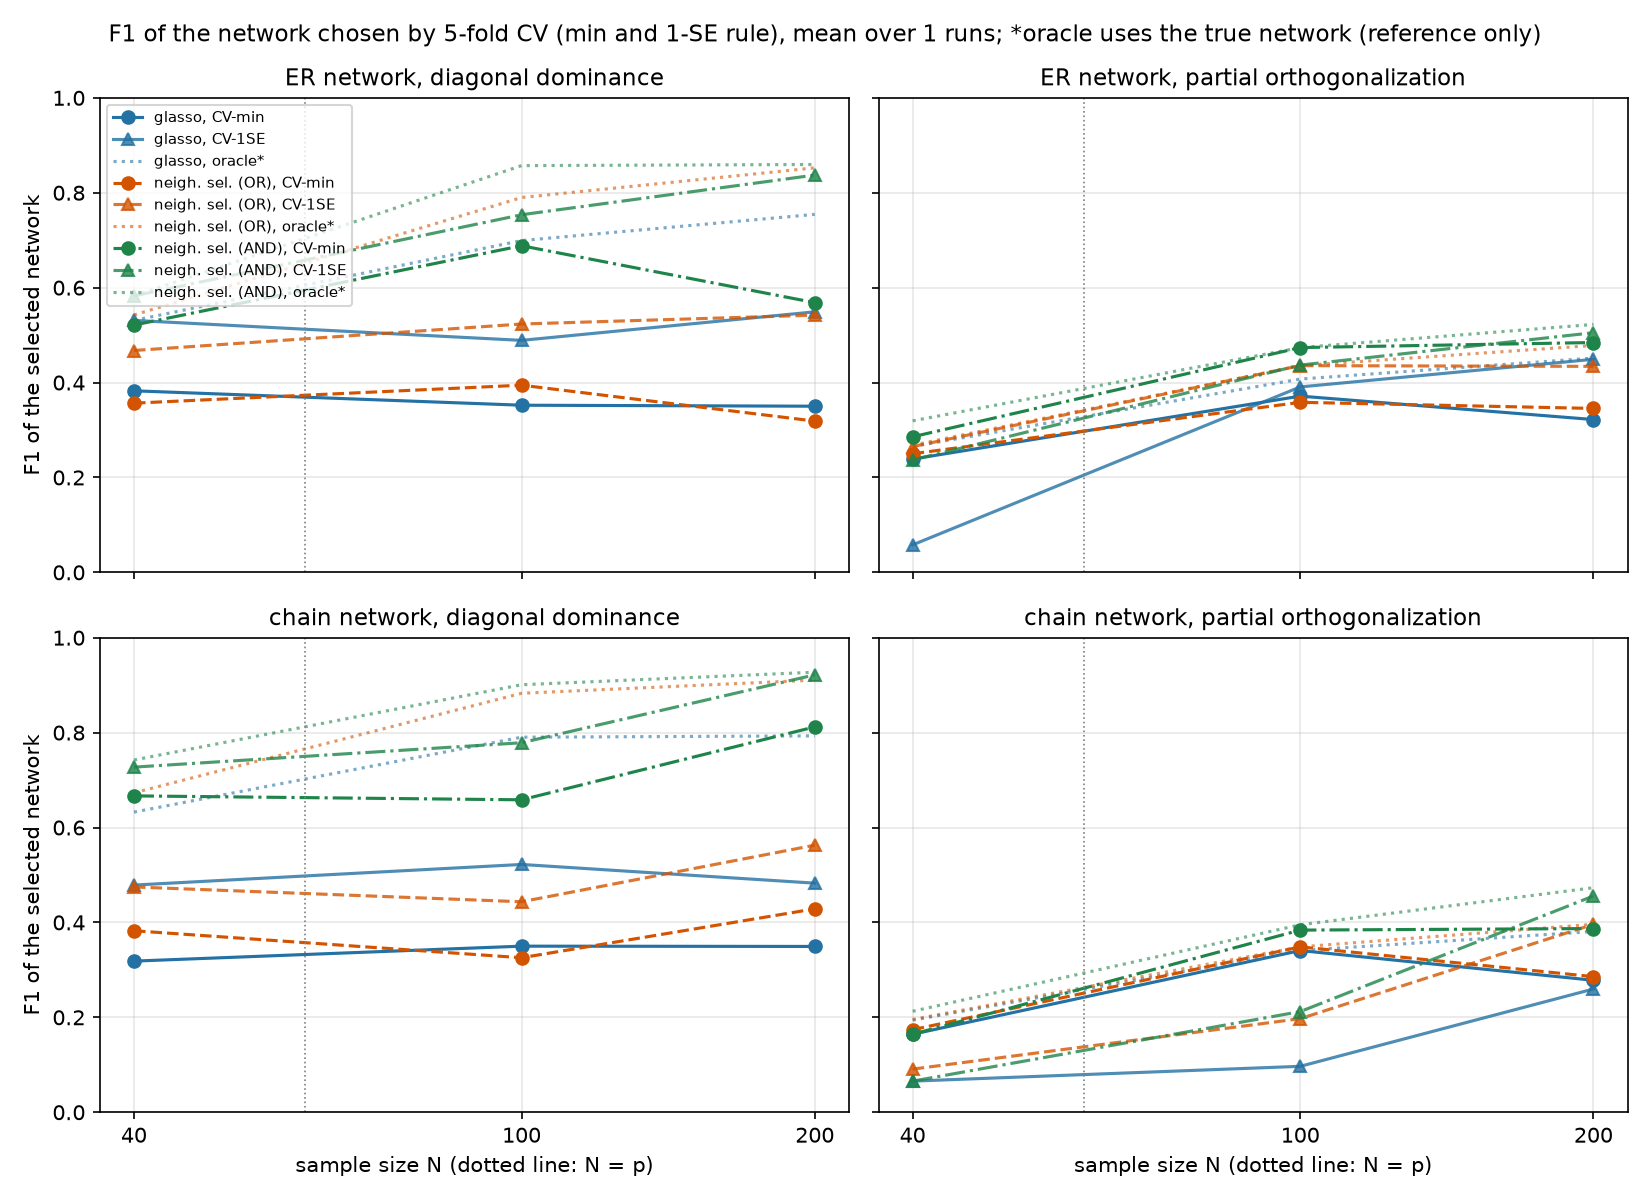
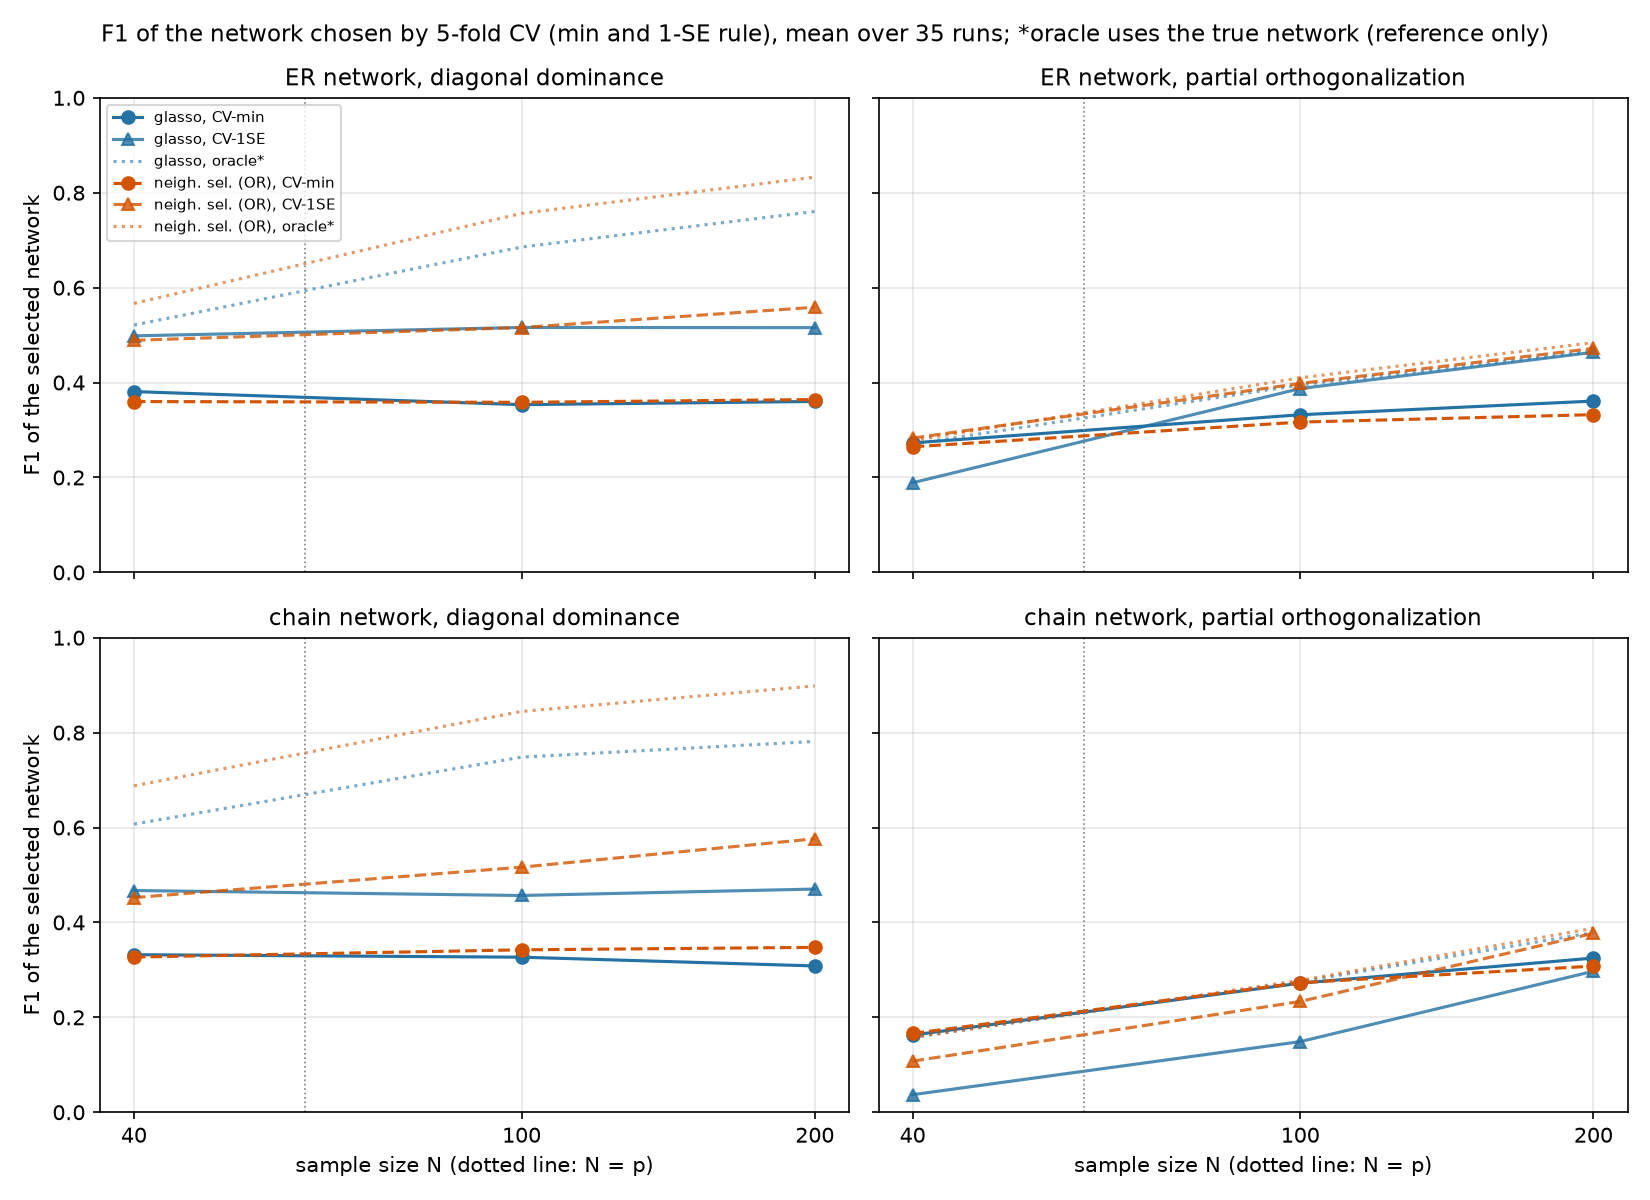
data: changes after all the run

diff --git a/results/partA_f1_table.md b/results/partA_f1_table.md
@@ -1,41 +1,29 @@
 | Network | Method | N | Estimator | TPR @ FPR=0.05 | F1 (CV-min) | edges (CV-min) | F1 (CV-1SE) | edges (CV-1SE) | F1 (BIC) | edges (BIC) | F1 oracle* | glasso failures |
 |---|---|---|---|---|---|---|---|---|---|---|---|---|
-| ER (67) | DD | 40 | glasso | 0.61 | 0.38 ± 0.00 | 163 | 0.53 ± 0.00 | 46 | 0.46 ± 0.00 | 75 | 0.53 | 0 |
-| ER (67) | DD | 100 | glasso | 0.81 | 0.35 ± 0.00 | 268 | 0.49 ± 0.00 | 158 | 0.56 ± 0.00 | 121 | 0.70 | 0 |
-| ER (67) | DD | 200 | glasso | 0.84 | 0.35 ± 0.00 | 270 | 0.55 ± 0.00 | 137 | 0.55 ± 0.00 | 137 | 0.75 | 0 |
-| ER (67) | DD | 40 | neigh. sel. (OR) | 0.59 | 0.36 ± 0.00 | 191 | 0.47 ± 0.00 | 87 | 0.54 ± 0.00 | 51 | 0.54 | – |
-| ER (67) | DD | 100 | neigh. sel. (OR) | 0.83 | 0.39 ± 0.00 | 222 | 0.52 ± 0.00 | 147 | 0.63 ± 0.00 | 104 | 0.79 | – |
-| ER (67) | DD | 200 | neigh. sel. (OR) | 0.86 | 0.32 ± 0.00 | 322 | 0.54 ± 0.00 | 147 | 0.67 ± 0.00 | 96 | 0.85 | – |
-| ER (67) | DD | 40 | neigh. sel. (AND) | 0.61 | 0.52 ± 0.00 | 75 | 0.58 ± 0.00 | 36 | 0.53 ± 0.00 | 27 | 0.58 | – |
-| ER (67) | DD | 100 | neigh. sel. (AND) | 0.82 | 0.69 ± 0.00 | 87 | 0.75 ± 0.00 | 71 | 0.82 ± 0.00 | 57 | 0.86 | – |
-| ER (67) | DD | 200 | neigh. sel. (AND) | 0.81 | 0.57 ± 0.00 | 123 | 0.84 ± 0.00 | 62 | 0.86 ± 0.00 | 54 | 0.86 | – |
-| ER (67) | PO | 40 | glasso | 0.30 | 0.24 ± 0.00 | 67 | 0.06 ± 0.00 | 2 | 0.26 ± 0.00 | 18 | 0.27 | 0 |
-| ER (67) | PO | 100 | glasso | 0.47 | 0.37 ± 0.00 | 73 | 0.39 ± 0.00 | 20 | 0.41 ± 0.00 | 41 | 0.41 | 0 |
-| ER (67) | PO | 200 | glasso | 0.50 | 0.32 ± 0.00 | 169 | 0.45 ± 0.00 | 31 | 0.44 ± 0.00 | 47 | 0.45 | 0 |
-| ER (67) | PO | 40 | neigh. sel. (OR) | 0.31 | 0.25 ± 0.00 | 93 | 0.27 ± 0.00 | 16 | 0.27 ± 0.00 | 30 | 0.27 | – |
-| ER (67) | PO | 100 | neigh. sel. (OR) | 0.47 | 0.36 ± 0.00 | 106 | 0.44 ± 0.00 | 34 | 0.44 ± 0.00 | 34 | 0.44 | – |
-| ER (67) | PO | 200 | neigh. sel. (OR) | 0.53 | 0.35 ± 0.00 | 153 | 0.43 ± 0.00 | 62 | 0.43 ± 0.00 | 87 | 0.48 | – |
-| ER (67) | PO | 40 | neigh. sel. (AND) | 0.34 | 0.29 ± 0.00 | 31 | 0.24 ± 0.00 | 9 | 0.30 ± 0.00 | 12 | 0.32 | – |
-| ER (67) | PO | 100 | neigh. sel. (AND) | 0.49 | 0.47 ± 0.00 | 47 | 0.44 ± 0.00 | 20 | 0.44 ± 0.00 | 20 | 0.47 | – |
-| ER (67) | PO | 200 | neigh. sel. (AND) | 0.55 | 0.48 ± 0.00 | 61 | 0.51 ± 0.00 | 32 | 0.52 ± 0.00 | 44 | 0.52 | – |
-| chain (59) | DD | 40 | glasso | 0.76 | 0.32 ± 0.00 | 255 | 0.48 ± 0.00 | 129 | 0.57 ± 0.00 | 85 | 0.63 | 0 |
-| chain (59) | DD | 100 | glasso | 0.89 | 0.35 ± 0.00 | 261 | 0.52 ± 0.00 | 144 | 0.52 ± 0.00 | 144 | 0.79 | 0 |
-| chain (59) | DD | 200 | glasso | 0.92 | 0.35 ± 0.00 | 273 | 0.48 ± 0.00 | 173 | 0.48 ± 0.00 | 173 | 0.79 | 0 |
-| chain (59) | DD | 40 | neigh. sel. (OR) | 0.79 | 0.38 ± 0.00 | 192 | 0.47 ± 0.00 | 139 | 0.59 ± 0.00 | 84 | 0.67 | – |
-| chain (59) | DD | 100 | neigh. sel. (OR) | 0.91 | 0.33 ± 0.00 | 285 | 0.44 ± 0.00 | 189 | 0.59 ± 0.00 | 120 | 0.88 | – |
-| chain (59) | DD | 200 | neigh. sel. (OR) | 0.95 | 0.43 ± 0.00 | 207 | 0.56 ± 0.00 | 140 | 0.77 ± 0.00 | 83 | 0.91 | – |
-| chain (59) | DD | 40 | neigh. sel. (AND) | 0.80 | 0.67 ± 0.00 | 76 | 0.73 ± 0.00 | 51 | 0.73 ± 0.00 | 43 | 0.74 | – |
-| chain (59) | DD | 100 | neigh. sel. (AND) | 0.91 | 0.66 ± 0.00 | 102 | 0.78 ± 0.00 | 72 | 0.86 ± 0.00 | 59 | 0.90 | – |
-| chain (59) | DD | 200 | neigh. sel. (AND) | 0.94 | 0.81 ± 0.00 | 74 | 0.92 ± 0.00 | 56 | 0.92 ± 0.00 | 52 | 0.93 | – |
-| chain (59) | PO | 40 | glasso | 0.23 | 0.16 ± 0.00 | 14 | 0.07 ± 0.00 | 2 | 0.10 ± 0.00 | 3 | 0.19 | 0 |
-| chain (59) | PO | 100 | glasso | 0.41 | 0.34 ± 0.00 | 76 | 0.10 ± 0.00 | 3 | 0.19 ± 0.00 | 13 | 0.34 | 0 |
-| chain (59) | PO | 200 | glasso | 0.41 | 0.28 ± 0.00 | 128 | 0.26 ± 0.00 | 18 | 0.26 ± 0.00 | 18 | 0.38 | 0 |
-| chain (59) | PO | 40 | neigh. sel. (OR) | 0.24 | 0.17 ± 0.00 | 33 | 0.09 ± 0.00 | 7 | 0.14 ± 0.00 | 12 | 0.20 | – |
-| chain (59) | PO | 100 | neigh. sel. (OR) | 0.41 | 0.35 ± 0.00 | 73 | 0.20 ± 0.00 | 12 | 0.20 ± 0.00 | 12 | 0.35 | – |
-| chain (59) | PO | 200 | neigh. sel. (OR) | 0.42 | 0.29 ± 0.00 | 123 | 0.40 ± 0.00 | 42 | 0.40 ± 0.00 | 42 | 0.40 | – |
-| chain (59) | PO | 40 | neigh. sel. (AND) | 0.26 | 0.16 ± 0.00 | 14 | 0.07 ± 0.00 | 2 | 0.13 ± 0.00 | 4 | 0.21 | – |
-| chain (59) | PO | 100 | neigh. sel. (AND) | 0.38 | 0.38 ± 0.00 | 40 | 0.21 ± 0.00 | 7 | 0.21 ± 0.00 | 7 | 0.40 | – |
-| chain (59) | PO | 200 | neigh. sel. (AND) | 0.50 | 0.39 ± 0.00 | 65 | 0.46 ± 0.00 | 20 | 0.46 ± 0.00 | 20 | 0.47 | – |
+| ER (67) | DD | 40 | glasso | 0.66 | 0.38 ± 0.04 | 189 | 0.50 ± 0.05 | 100 | 0.51 ± 0.04 | 93 | 0.52 | 0 |
+| ER (67) | DD | 100 | glasso | 0.80 | 0.35 ± 0.03 | 257 | 0.52 ± 0.04 | 144 | 0.55 ± 0.04 | 129 | 0.69 | 0 |
+| ER (67) | DD | 200 | glasso | 0.86 | 0.36 ± 0.03 | 268 | 0.52 ± 0.05 | 161 | 0.56 ± 0.05 | 138 | 0.76 | 0 |
+| ER (67) | DD | 40 | neigh. sel. (OR) | 0.67 | 0.36 ± 0.05 | 213 | 0.49 ± 0.06 | 115 | 0.42 ± 0.17 | 328 | 0.57 | – |
+| ER (67) | DD | 100 | neigh. sel. (OR) | 0.81 | 0.36 ± 0.04 | 256 | 0.52 ± 0.07 | 149 | 0.61 ± 0.05 | 111 | 0.76 | – |
+| ER (67) | DD | 200 | neigh. sel. (OR) | 0.86 | 0.36 ± 0.04 | 265 | 0.56 ± 0.07 | 144 | 0.64 ± 0.05 | 114 | 0.83 | – |
+| ER (67) | PO | 40 | glasso | 0.32 | 0.27 ± 0.03 | 79 | 0.19 ± 0.10 | 14 | 0.26 ± 0.06 | 25 | 0.27 | 0 |
+| ER (67) | PO | 100 | glasso | 0.44 | 0.33 ± 0.04 | 117 | 0.39 ± 0.04 | 37 | 0.40 ± 0.04 | 39 | 0.39 | 0 |
+| ER (67) | PO | 200 | glasso | 0.55 | 0.36 ± 0.05 | 154 | 0.46 ± 0.03 | 47 | 0.47 ± 0.03 | 52 | 0.47 | 0 |
+| ER (67) | PO | 40 | neigh. sel. (OR) | 0.32 | 0.26 ± 0.03 | 98 | 0.28 ± 0.04 | 34 | 0.29 ± 0.04 | 35 | 0.28 | – |
+| ER (67) | PO | 100 | neigh. sel. (OR) | 0.45 | 0.32 ± 0.04 | 138 | 0.40 ± 0.04 | 54 | 0.41 ± 0.04 | 43 | 0.41 | – |
+| ER (67) | PO | 200 | neigh. sel. (OR) | 0.55 | 0.33 ± 0.04 | 181 | 0.47 ± 0.04 | 67 | 0.48 ± 0.04 | 58 | 0.48 | – |
+| chain (59) | DD | 40 | glasso | 0.77 | 0.33 ± 0.03 | 245 | 0.47 ± 0.06 | 142 | 0.51 ± 0.04 | 120 | 0.61 | 0 |
+| chain (59) | DD | 100 | glasso | 0.88 | 0.33 ± 0.03 | 279 | 0.46 ± 0.05 | 177 | 0.51 ± 0.05 | 151 | 0.75 | 0 |
+| chain (59) | DD | 200 | glasso | 0.92 | 0.31 ± 0.02 | 313 | 0.47 ± 0.06 | 181 | 0.51 ± 0.05 | 157 | 0.78 | 0 |
+| chain (59) | DD | 40 | neigh. sel. (OR) | 0.78 | 0.33 ± 0.04 | 247 | 0.45 ± 0.05 | 153 | 0.44 ± 0.18 | 340 | 0.69 | – |
+| chain (59) | DD | 100 | neigh. sel. (OR) | 0.90 | 0.34 ± 0.04 | 265 | 0.52 ± 0.07 | 153 | 0.61 ± 0.06 | 117 | 0.84 | – |
+| chain (59) | DD | 200 | neigh. sel. (OR) | 0.94 | 0.35 ± 0.04 | 271 | 0.58 ± 0.09 | 139 | 0.67 ± 0.06 | 107 | 0.90 | – |
+| chain (59) | PO | 40 | glasso | 0.20 | 0.16 ± 0.03 | 35 | 0.04 ± 0.04 | 1 | 0.13 ± 0.04 | 9 | 0.16 | 0 |
+| chain (59) | PO | 100 | glasso | 0.35 | 0.27 ± 0.04 | 81 | 0.15 ± 0.05 | 8 | 0.22 ± 0.04 | 18 | 0.27 | 0 |
+| chain (59) | PO | 200 | glasso | 0.46 | 0.32 ± 0.04 | 111 | 0.30 ± 0.07 | 19 | 0.37 ± 0.04 | 34 | 0.38 | 0 |
+| chain (59) | PO | 40 | neigh. sel. (OR) | 0.20 | 0.17 ± 0.03 | 38 | 0.11 ± 0.03 | 7 | 0.14 ± 0.04 | 12 | 0.16 | – |
+| chain (59) | PO | 100 | neigh. sel. (OR) | 0.35 | 0.27 ± 0.03 | 85 | 0.23 ± 0.06 | 20 | 0.24 ± 0.05 | 20 | 0.28 | – |
+| chain (59) | PO | 200 | neigh. sel. (OR) | 0.47 | 0.31 ± 0.04 | 132 | 0.38 ± 0.04 | 34 | 0.38 ± 0.04 | 34 | 0.39 | – |
 
 The number in brackets after the network is its true number of edges. Edges is the mean number of edges in the selected network. CV-min: lambda with the smallest 5-fold CV score. CV-1SE: the largest lambda whose CV score is within one standard error of that minimum (a sparser network with almost the same CV score).
 *Oracle F1: the F1 of the single best fixed λ/λ_max on the grid, averaged over runs. It uses the true network, so it is not a usable rule; it is a reference. The rules choose λ separately in each run, so they can occasionally beat it.
